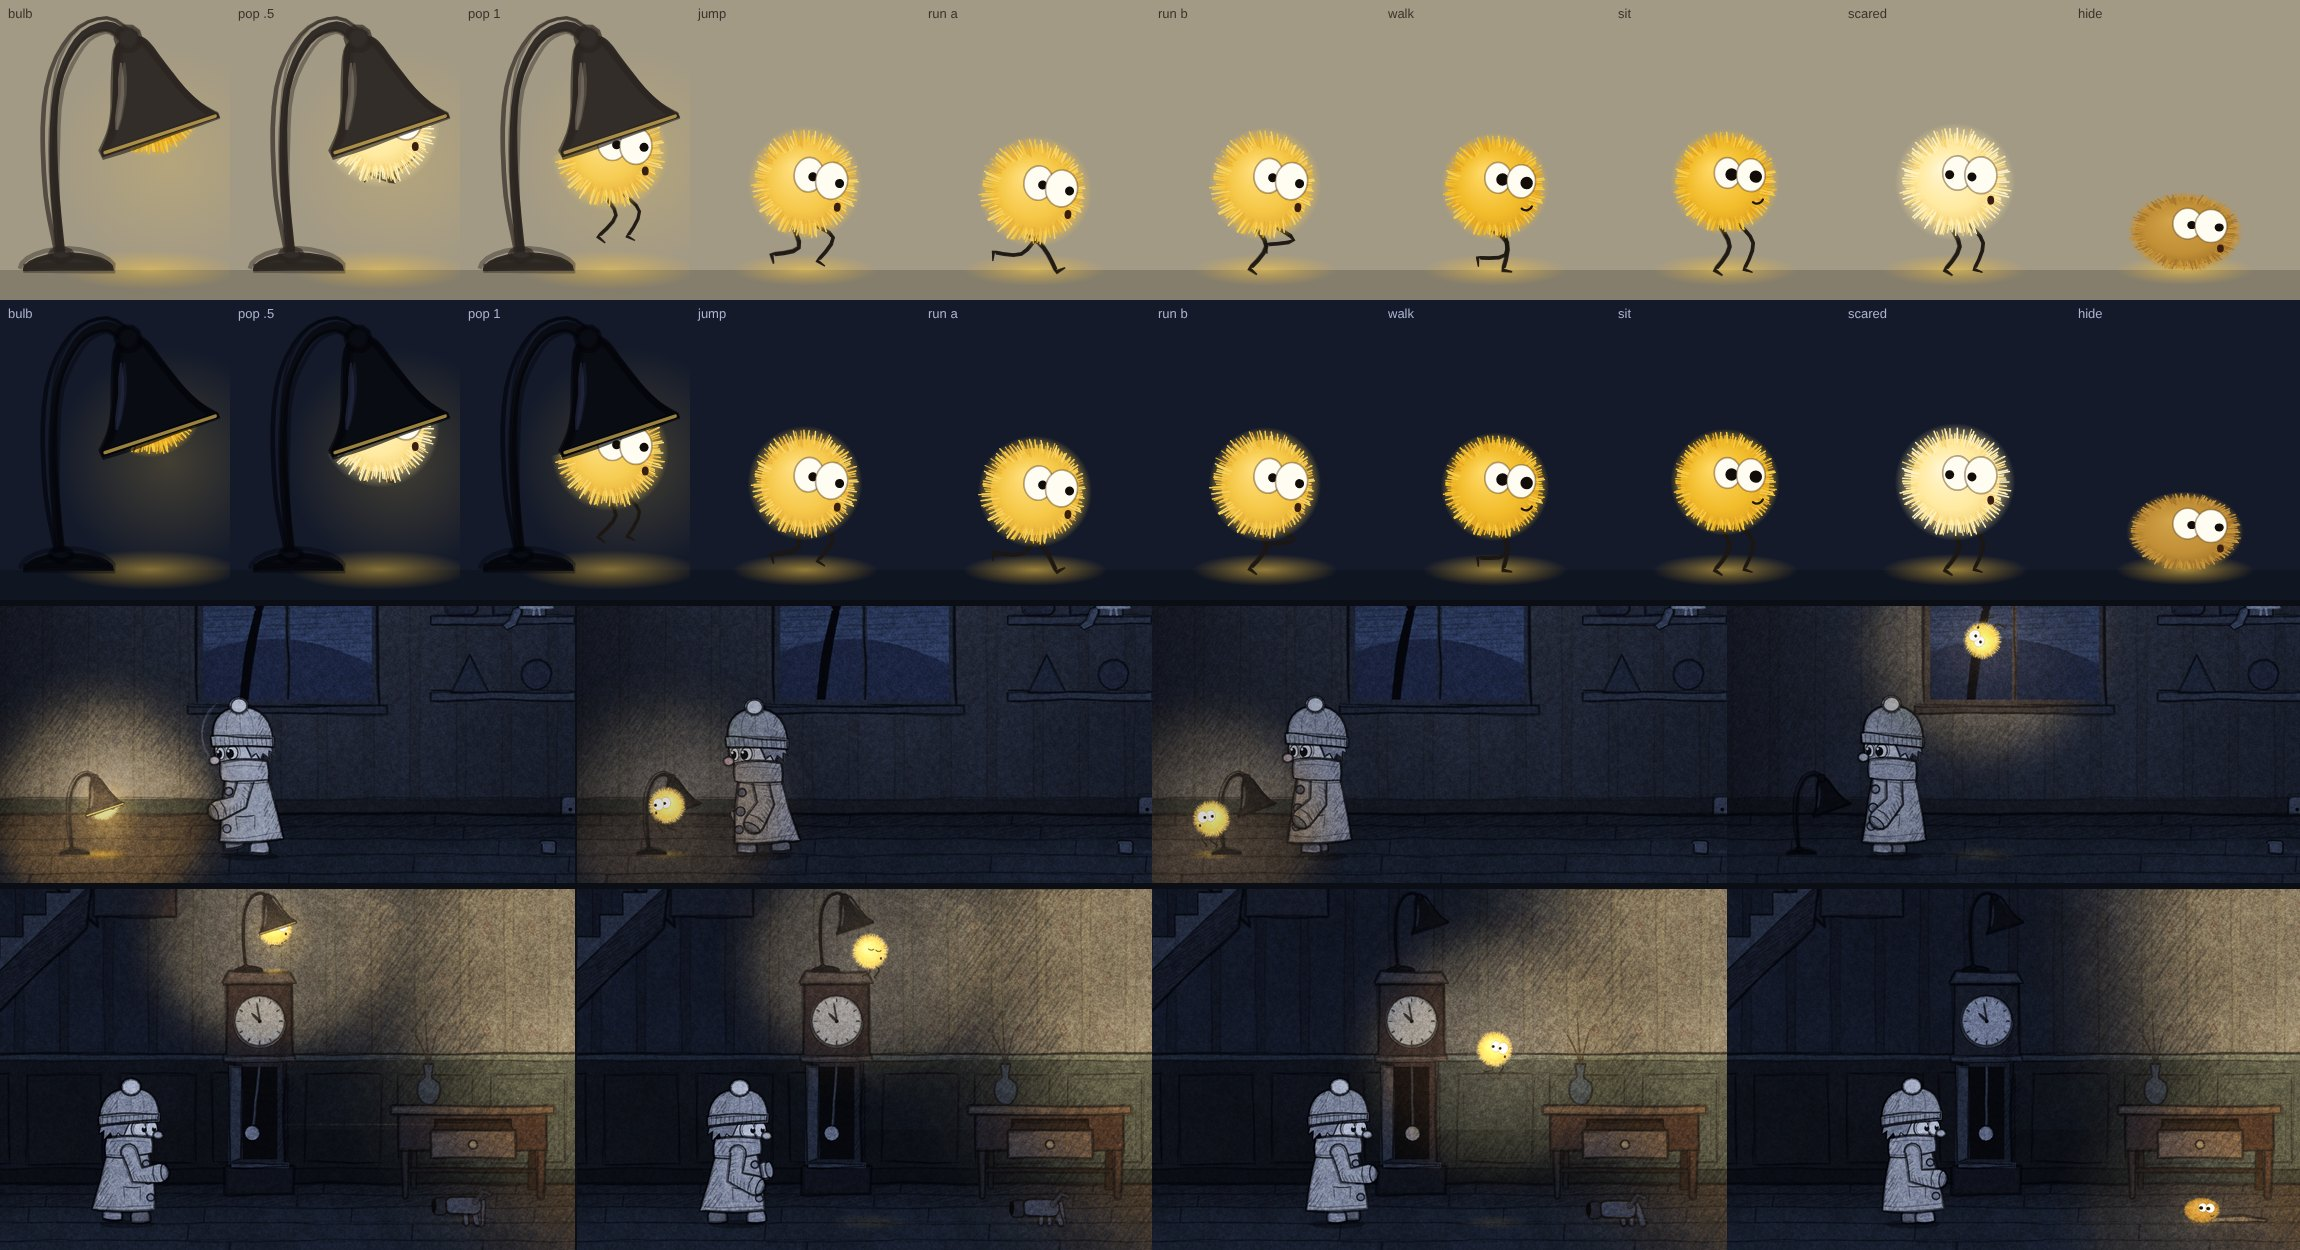
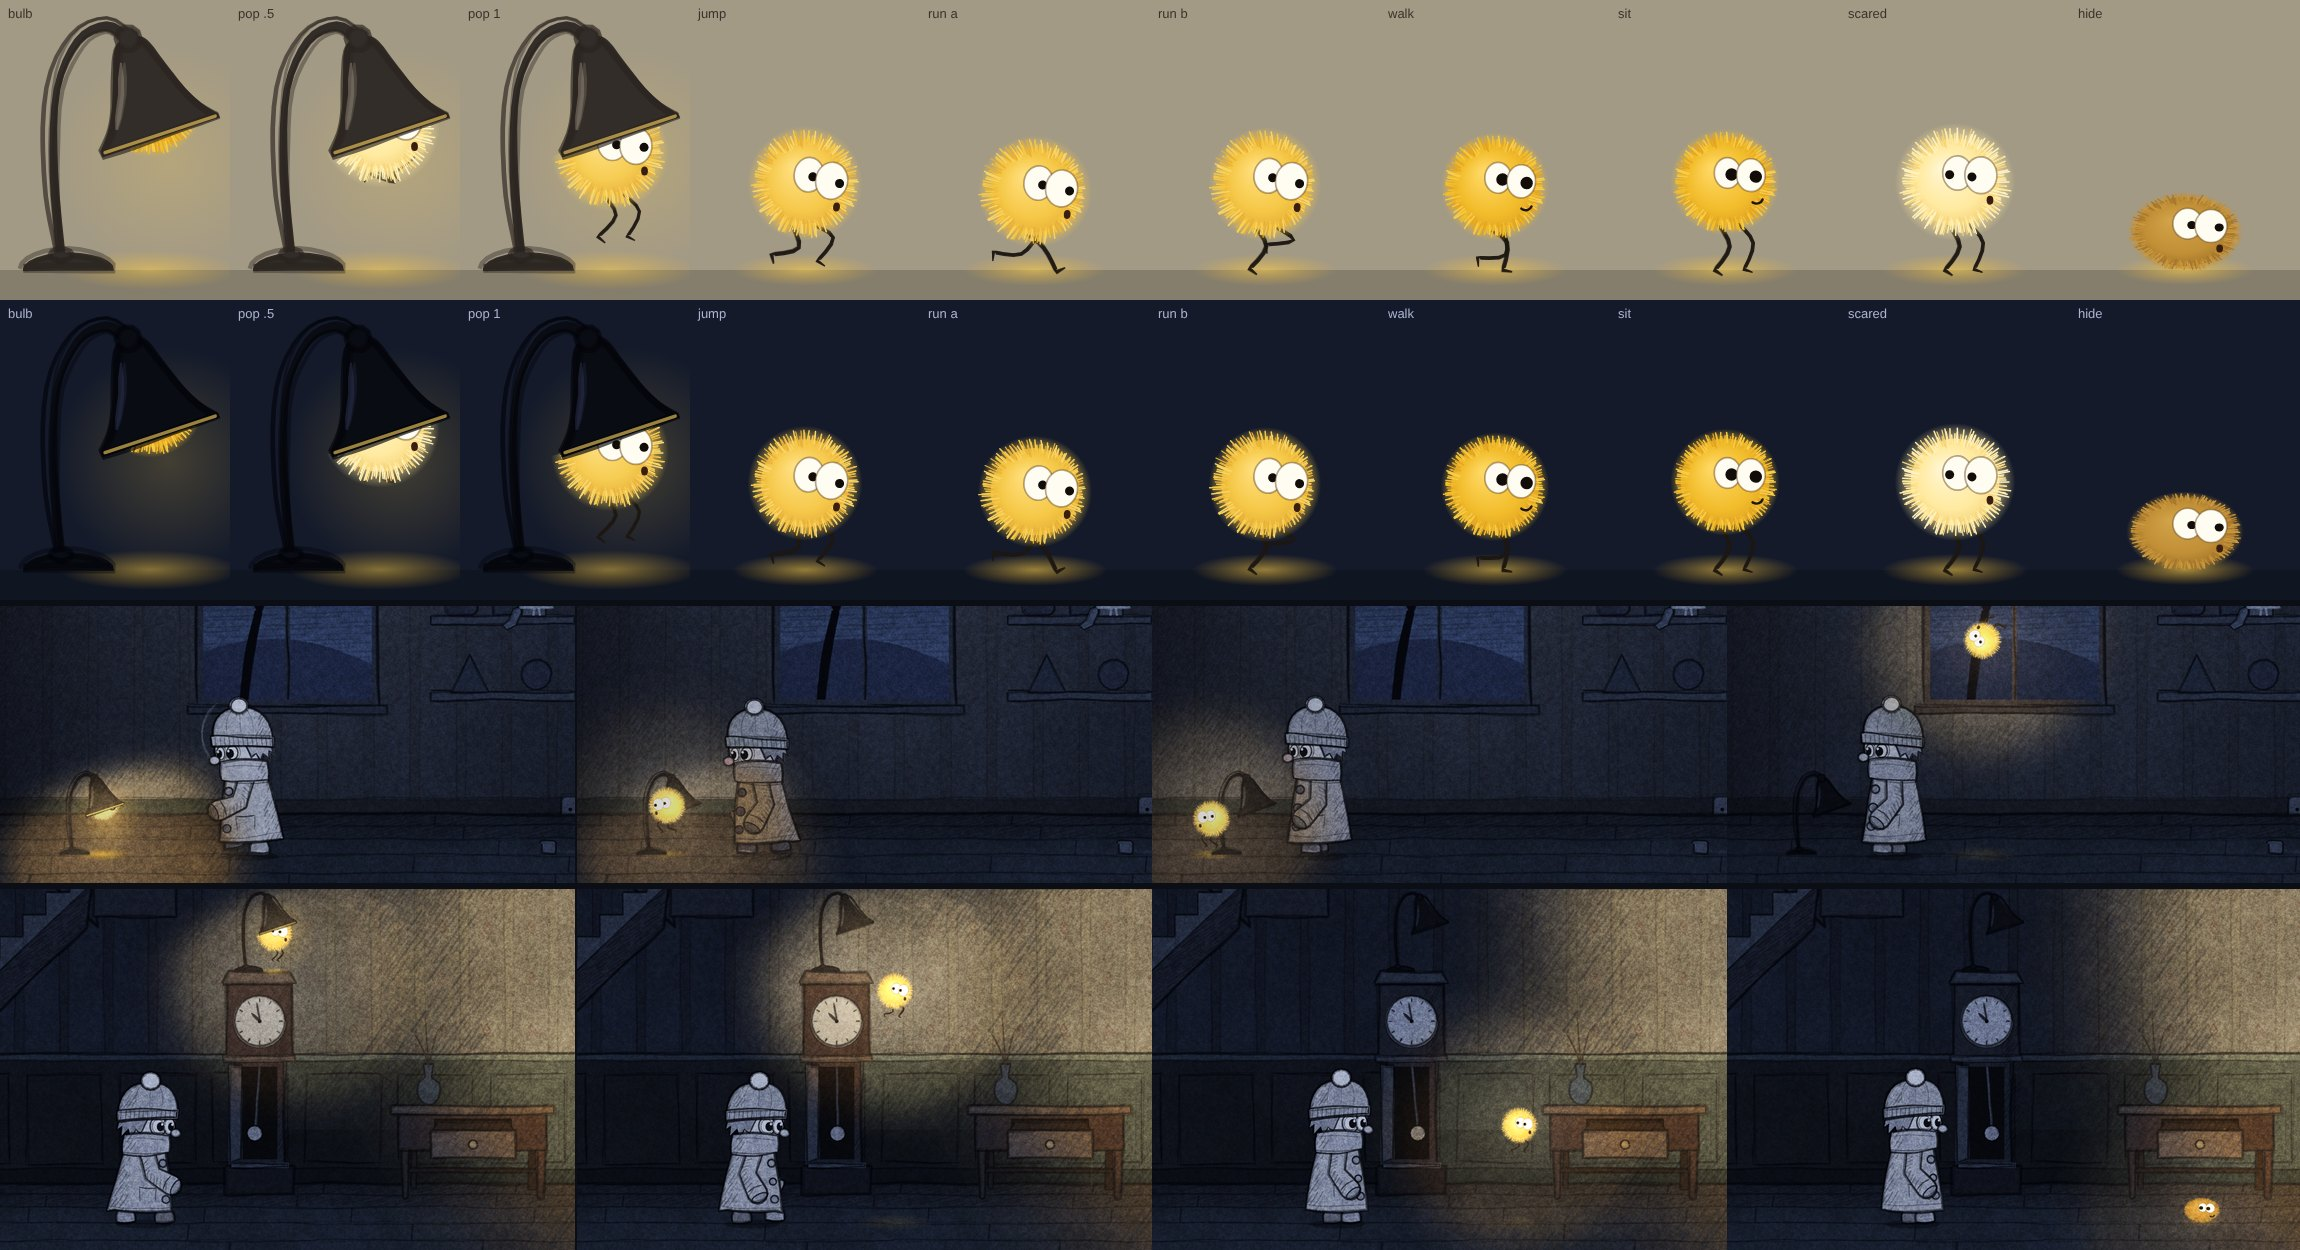
夜里的房子: lamp critter legs, mouth and shade light readable in game
The critter's legs, blink lines and mouth were thinner than the house's
other pencil lines, about 1 px on screen and nearly gone on phones. They
are now drawn by on-screen weight (legs at least 1.4 CSS px, face lines
1.2), and the mouth grows a little when the critter is small on screen;
zoomed views are unchanged.

While it hides under the shade, its light is now a separate downward lamp
from the shade opening (offset down, cut above, tilted with the shade), so
the wall above the lamp no longer lights up; once it runs out the light is
the ball around it again, with a 0.3 s cross-fade between the two. Its
light still reaches no clothes monster's head in any state.

Claude-Session: https://claude.ai/code/session_01RrfmtgTEuMDkZHQ7rHSkus

diff --git a/README.md b/README.md
@@ -113,10 +113,13 @@
         - 地上的光（`impPool`）：脚底下一小片黄光，跳得越高越淡、越大；在灯罩里的时候铺在台灯底下（门厅那只只铺在钟顶上）。
         - 心情还是看绒毛和颜色（原来的光芒换成了绒毛 `fur`）：吓到的时候一下子变淡变亮、闪几下，绒毛炸开变长，慢慢收回；躲在桌子底下的时候绒毛贴着身子、暗暗的琥珀色。变身时飞来飞去的光点去掉了：现在它不是“变”出来的，是从灯罩里钻出来的。
         - 比原来大一点（台灯和它一起放大到 1.3 倍，毛球直径大约 34，孩子 150 高）；台灯比第七版的布灯罩台灯（大约 62 高）高一些，大约 85。灯崽身上那圈光晕去掉了白色的芯，免得把黄毛和眼睛冲白。
+        - 又改了两处（同一天晚上，主人问“需要优化吗”，我说腿和光的方向最该改，主人说“改一下吧”，又问“嘴巴呢，有吗？”）：
+          - 腿、嘴在游戏里太细，看不见（腿只有房子里别的铅笔线一半粗，屏幕上大约 1 像素，手机上几乎没了；嘴有，是眼睛底下一道小小的笑，可是也看不出来）。现在按屏幕上的粗细画（`impPx`、`impMinW`）：腿在屏幕上至少 1.4 像素，和别的铅笔线差不多；眨眼、嘴的线至少 1.2 像素；画面里它小的时候嘴放大一点（最多 1.55 倍），吓到时张开的小圆嘴也一样。放大看的时候（上面那张图的姿势）不变，还是细的。
+          - 光的方向：以前光是围着灯崽的一团，缩在灯罩里的时候灯上方的墙也亮，不像被灯罩挡着。现在缩在灯罩里的时候是另一盏灯：从灯口出来，往下偏、上面挡掉，跟着灯罩斜着往前照；跑出来以后才是围着它的一团。两种之间 0.3 秒换过去（`sockL`）。量过（灯崽缩在卧室的台灯里）：灯上方 160 处的墙从 0.38 变成 0，灯前面 120 处的地从 0.17 变成 0.57，台灯后面从 0.62 变成 0.24。
         - 和同一天做的火苗崽、灯虫、萤火虫（见下面）不一样了：那几只还是第七版灯崽那一路（一团没有边的光、光颜色的细腿）。火苗崽用的是第七版灯崽的 `impLeg`、`drawImpEyes`，所以这两个留着没删；第八版灯崽自己的叫 `impLegLine`、`drawImpFace`。
       - 什么时候变（`impUpdate`）：孩子走到它跟前（同一间屋子的地上，190 以内），或者醒着追人的衣服离它 260 以内，它就吓一跳：猛地一亮、闪几下，吱一声，从灯罩底下往下一沉、睁眼、伸出腿（0.4 秒），然后跳下来，往自己那一片远的那头跑（290）。在灯罩里待腻了（隔 9 到 17 秒），它也会自己出来溜一圈。跑出来以后：堵在墙角，就翻个跟头从孩子头顶上蹦过去；门厅那只会钻到桌子底下，压扁、光调暗，眼睛往外看。没东西吓它，过 3.5 秒就慢慢走回台灯、跳回灯罩底下，往上一缩、闭上眼睛、腿收起来（0.6 秒），又只剩灯口那一点亮。孩子去开钟门的时候，钟顶上那只会钻出来跳下钟跑开。
-      - 不碰规则：它的光小（卧室 180、门厅 200），自己那一片（卧室 80–600，门厅 2950–3770）离衣服够远。不管它在灯罩里（缩着、探出来、朝哪边），在空中，还是跑出来在那一片的任何地方（坐、跑、躲），都照不到衣服的头（第八版又算了一遍，连吓到时猛地一亮也算上，是 0），谜题一步没变。代码在 `IMPS`、`impUpdate`、`drawImp`（`drawImpLamp` 台灯、`drawImpBody` 毛球和绒毛、`impLegLine` 腿、`impStride` 跑步、`drawImpFace` 眼睛和嘴、`impPool` 地上的光），光在 `LIGHTS` 里（id `imp`），声音是 `squeak`、`patter`、`hop`。
-      - 查过的（第八版）：`node mini/tools/check.mjs` 照旧通过；无头 Chrome 里照最短的解法自动玩到出门，一次没被抓，一路上两只灯崽缩着、探头、跳、跑、坐、躲（门厅那只）都出现过，页面没有报错；拿第七版用同样的方法玩一遍，点的次数、走的帧数一模一样。卧室：孩子走到台灯跟前，它探头、跳下来、往墙角跑、被堵住从孩子头顶翻过去，孩子走开以后走回台灯、跳回灯罩里；门厅（来了电以后）：孩子朝座钟走过去，钟顶上那只探头、跳下钟、跑到桌子底下躲起来 —— 都录下来看过。图：`generated_images/house-imps-08.jpg`（上面两行是放大的十个姿势，亮处、暗处各一行；下面是游戏里实际的大小）、`generated_images/house-imps-08.gif`（上面说的两段，约 20 秒）。前几版的图删了（在 git 历史里）。没有亲手玩，没在真手机上试，声音没听过。`mini/tools/worlds.html` 那几张效果图里的灯泡鸟没改，那是挑风格时的样张。
+      - 不碰规则：它的光小（卧室 180、门厅 200），自己那一片（卧室 80–600，门厅 2950–3770）离衣服够远。不管它在灯罩里（缩着、探出来、朝哪边），在空中，还是跑出来在那一片的任何地方（坐、跑、躲），还有两种光正在换的时候，都照不到衣服的头（连吓到时猛地一亮也算上，是 0），谜题一步没变。代码在 `IMPS`、`impUpdate`、`drawImp`（`drawImpLamp` 台灯、`drawImpBody` 毛球和绒毛、`impLegLine` 腿、`impStride` 跑步、`drawImpFace` 眼睛和嘴、`impPool` 地上的光），光在 `LIGHTS` 里（id `imp`），声音是 `squeak`、`patter`、`hop`。
+      - 查过的（第八版）：`node mini/tools/check.mjs` 照旧通过；无头 Chrome 里照最短的解法自动玩到出门，一次没被抓，一路上两只灯崽缩着、探头、跳、跑、坐、躲（门厅那只）都出现过，页面没有报错；拿第七版用同样的方法玩一遍，点的次数、走的帧数一模一样。卧室：孩子走到台灯跟前，它探头、跳下来、往墙角跑、被堵住从孩子头顶翻过去，孩子走开以后走回台灯、跳回灯罩里；门厅（来了电以后）：孩子朝座钟走过去，钟顶上那只探头、跳下钟、跑到桌子底下躲起来 —— 都录下来看过。图：`generated_images/house-imps-08.jpg`（上面两行是放大的十个姿势，亮处、暗处各一行；下面是游戏里实际的大小）、`generated_images/house-imps-08.gif`（上面说的两段，约 20 秒）。改了腿、嘴、光以后又全查了一遍（上面的检查都重跑了，结果一样；图和动图换成了改过以后的），电脑（1280×720）和手机横屏（844×390）的游戏截图改前改后对比看过。前几版的图删了（在 git 历史里）。没有亲手玩，没在真手机上试，声音没听过。`mini/tools/worlds.html` 那几张效果图里的灯泡鸟没改，那是挑风格时的样张。
     - **火苗崽**（2026-11-18）：主人说“继续设计火焰，能不能也设计成可以自己跑掉的小精灵？”壁炉的火要照到扶手椅上的毯子（规则：放柴、开风门），整团火不能走，所以跑的是住在火里的两只小火苗，一大一小。它们和灯崽是一家：没有边的一团光、一双白眼睛、两条光颜色的细腿；身子是一滴火，底下圆，上面一个跳动的尖，外面橙、里面黄、芯发白。代码在 `FLAMES`、`flameUpdate`、`drawFlameImps`、`drawFlameBody`；原来炉火里那两只眼睛删了。
       - 没放柴：缩在炭火里睡觉，是两块一呼一吸的炭，闭着眼；孩子走近了，会偷偷睁一只眼。
       - 放了柴、风门关着（冒烟）：呛醒了，咳一声从壁炉里跳出来，一只坐在壁炉边、一只坐在门口那边（柴筐两边），隔一会儿咳一下（压扁、闭眼、张嘴、冒一小口烟），回头看着壁炉。这是给玩家的提示：火喘不上气。孩子走过来，它们会往旁边蹦开，被堵住就从孩子头顶上蹦过去。
